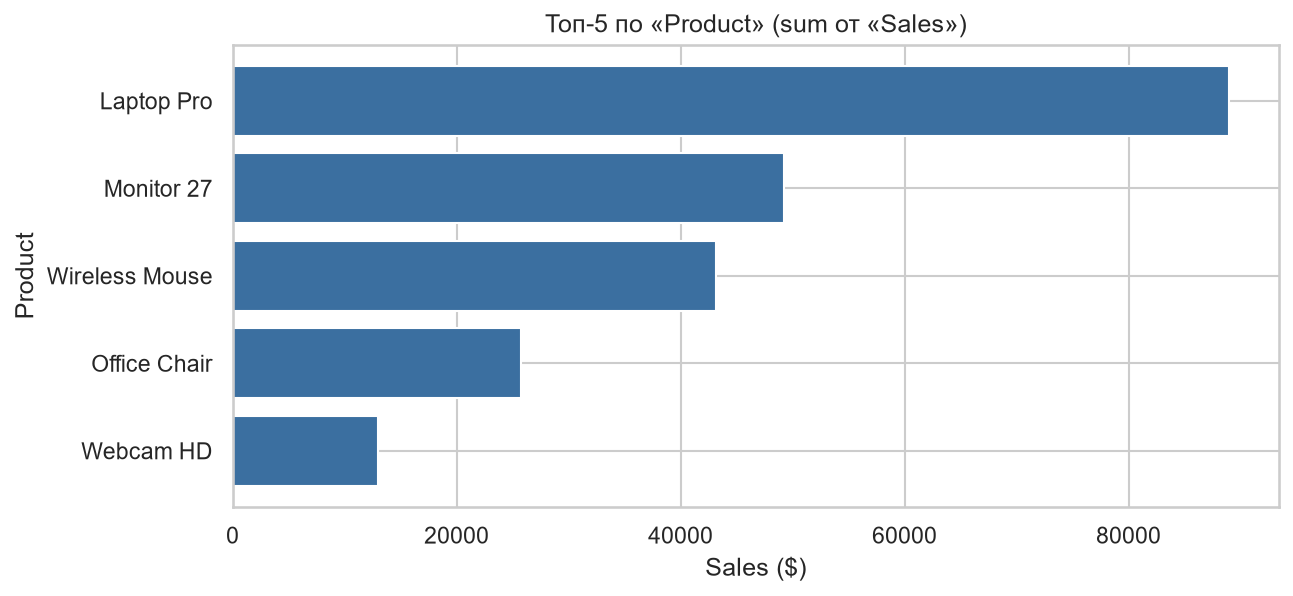
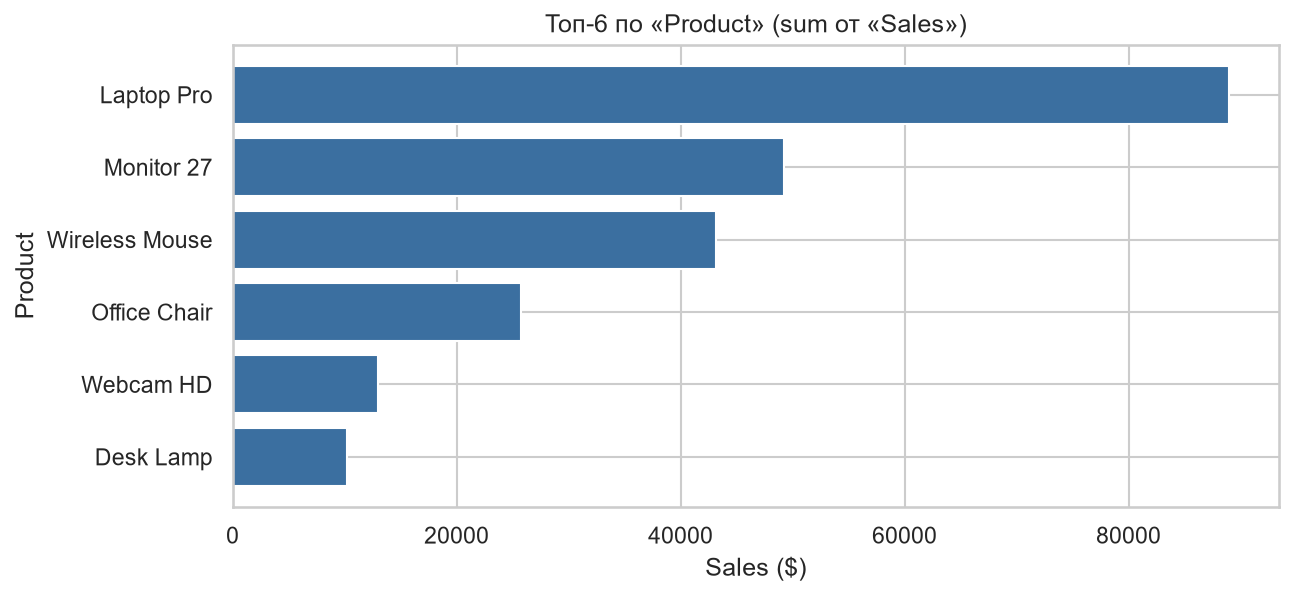
fix: описания графиков теряли данные, без которых модель слепа
Предпрогон всей цепочки через fastmcp.Client (в порядке из
prompts/system_prompt.md) вскрыл три дефекта. Общий корень: модель не
видит PNG, поэтому всё, чего нет в текстовом описании, для неё не
существует — а описания выбрасывали большую часть содержимого графика.

1. plot_top_n называл только лидера. Из-за этого описания топ-N по
   Sales и по Profit были почти идентичны ("лидер Laptop Pro"), и
   главная находка датасета — Wireless Mouse, 3-е место по обороту
   (19%) против 4-го по прибыли (8%) — была принципиально
   ненаблюдаема. Теперь перечисляется весь рейтинг с долями.

2. plot_trend считал динамику как "первый месяц против последнего" и
   выдавал +250% на данных, где год к году рост около нуля. Модель
   перенесла бы эту цифру в отчёт как факт. Теперь динамика считается
   по годовым суммам (2023 — 114891, 2024 — 115381, +0.4%), а при
   периоде меньше двух лет — по половинам периода; добавлен признак
   сезонности по календарным месяцам.

3. correlation_analysis называл только сильнейшую пару, и
   отрицательная связь Quantity-Profit (-0.13) пропадала. Теперь
   перечисляются все пары по убыванию силы связи. Попутно: в pandas 3
   stack() не отбрасывает NaN сам, из-за чего замаскированная половина
   матрицы полезла в описание парами с nan — добавлен явный dropna().

На каждый дефект написан регрессионный тест: прежние 63 теста
проходили зелёными и ни один из них этого не ловил, потому что
проверяли факт наличия описания, а не его информативность.
[…]

diff --git a/skills/visualization.py b/skills/visualization.py
@@ -168,15 +168,42 @@ def _build_trend_chart(df: pd.DataFrame, x_col: str, y_col: str) -> tuple[plt.Fi
 
     peak_month = monthly.idxmax()
     trough_month = monthly.idxmin()
-    first_value, last_value = monthly.iloc[0], monthly.iloc[-1]
-    change_pct = ((last_value - first_value) / first_value * 100) if first_value else 0.0
+
+    # Динамику намеренно считаем по агрегатам (годовым суммам или
+    # половинам периода), а не как «первый месяц против последнего»:
+    # два одиночных месяца слишком шумные, и полученный по ним процент
+    # ушёл бы в отчёт как утверждение о тренде, которого в данных нет.
+    yearly = monthly.groupby(monthly.index.year).sum()
+    if len(yearly) > 1:
+        dynamics = "По годам: " + ", ".join(
+            f"{year} — {value:.0f}" for year, value in yearly.items()
+        )
+        first_year_value, last_year_value = yearly.iloc[0], yearly.iloc[-1]
+        if first_year_value:
+            change_pct = (last_year_value - first_year_value) / first_year_value * 100
+            dynamics += f" (изменение {yearly.index[0]} → {yearly.index[-1]}: {change_pct:+.1f}%)"
+        dynamics += "."
+    else:
+        half = len(monthly) // 2
+        first_half, second_half = monthly.iloc[:half].sum(), monthly.iloc[half:].sum()
+        change_pct = ((second_half - first_half) / first_half * 100) if first_half else 0.0
+        dynamics = (
+            f"Вторая половина периода против первой: {change_pct:+.1f}% "
+            f"({first_half:.0f} → {second_half:.0f})."
+        )
+
+    monthly_by_calendar_month = monthly.groupby(monthly.index.month).mean()
+    best_month = monthly_by_calendar_month.idxmax()
+    worst_month = monthly_by_calendar_month.idxmin()
 
     description = (
         f"Линейный график помесячной суммы '{y_col}' с {monthly.index.min():%Y-%m} "
-        f"по {monthly.index.max():%Y-%m}. Пик — {peak_month:%Y-%m} "
-        f"({monthly.loc[peak_month]:.0f}), минимум — {trough_month:%Y-%m} "
-        f"({monthly.loc[trough_month]:.0f}). Изменение от первого к последнему "
-        f"месяцу: {change_pct:+.1f}%."
+        f"по {monthly.index.max():%Y-%m} ({len(monthly)} точек). "
+        f"Пик — {peak_month:%Y-%m} ({monthly.loc[peak_month]:.0f}), "
+        f"минимум — {trough_month:%Y-%m} ({monthly.loc[trough_month]:.0f}), "
+        f"среднее за месяц {monthly.mean():.0f}. {dynamics} "
+        f"В среднем по календарным месяцам сильнее всего месяц №{best_month}, "
+        f"слабее всего №{worst_month} — признак сезонности."
     )
     return fig, description
 
@@ -255,15 +282,21 @@ def _build_correlation_chart(df: pd.DataFrame) -> tuple[plt.Figure, str]:
     ax.set_title("Корреляционная матрица числовых показателей")
     fig.autofmt_xdate(rotation=45)
 
+    # Перечисляем все пары, а не только сильнейшую: модель не видит саму
+    # карту, и любая пара, не попавшая в описание, для неё не существует —
+    # включая содержательные слабые и отрицательные связи.
     upper_triangle_mask = np.triu(np.ones(corr.shape, dtype=bool), k=1)
-    pairs = corr.where(upper_triangle_mask).stack()
-    strongest_pair = pairs.abs().idxmax()
-    strongest_value = pairs.loc[strongest_pair]
+    # dropna() обязателен: в pandas 3 stack() больше не отбрасывает
+    # NaN сам, и замаскированная половина матрицы попала бы в описание
+    # как пары с коэффициентом nan.
+    pairs = corr.where(upper_triangle_mask).stack().dropna().sort_values(key=abs, ascending=False)
+    pairs_text = "; ".join(
+        f"'{left}' и '{right}': {value:+.2f}" for (left, right), value in pairs.items()
+    )
 
     description = (
         f"Тепловая карта корреляций между колонками: {', '.join(corr.columns)}. "
-        f"Сильнее всего связаны '{strongest_pair[0]}' и '{strongest_pair[1]}' "
-        f"(коэффициент {strongest_value:+.2f})."
+        f"Все пары по убыванию силы связи — {pairs_text}."
     )
     return fig, description
 
@@ -296,14 +329,24 @@ def _build_top_n_chart(
     ax.set_xlabel(_axis_label(value_col))
     ax.set_ylabel(category_col)
 
-    leader, leader_value = top.index[0], top.iloc[0]
     total = grouped.sum()
-    share_pct = (leader_value / total * 100) if total else 0.0
+
+    # Перечисляем весь рейтинг, а не только лидера: модель не видит
+    # картинку, поэтому по описанию «лидер такой-то» невозможно сравнить
+    # два графика между собой (например, заметить товар с высоким
+    # оборотом, но низкой прибылью). Список ограничен n, так что он
+    # заведомо компактный.
+    ranking_text = "; ".join(
+        f"{position}. '{category}' — {value:.0f}"
+        + (f" ({value / total * 100:.0f}%)" if total else "")
+        for position, (category, value) in enumerate(top.items(), start=1)
+    )
 
     description = (
         f"Горизонтальная столбчатая диаграмма: топ-{len(top)} значений "
-        f"'{category_col}' по {agg} от '{value_col}'. Лидер — '{leader}' "
-        f"({leader_value:.0f}, {share_pct:.0f}% от суммы по всем категориям)."
+        f"'{category_col}' по {agg} от '{value_col}' "
+        f"(всего категорий: {len(grouped)}). Рейтинг по убыванию — "
+        f"{ranking_text}."
     )
     return fig, description
 

diff --git a/tests/test_visualization.py b/tests/test_visualization.py
@@ -95,6 +95,23 @@ def test_correlation_chart_created_and_describes_strongest_pair(
     assert "Profit" in result["description"]
 
 
+def test_correlation_description_lists_every_pair_without_nan(
+    cleaned_dataset_id: tuple[SessionStore, str],
+) -> None:
+    """Регрессия: описание перечисляет все пары и не содержит nan.
+
+    Раньше называлась только сильнейшая пара, и отрицательная связь
+    Quantity↔Profit была для модели невидима — она не видит саму карту.
+    """
+    session, dataset_id = cleaned_dataset_id
+    description = CorrelationChartSkill(session).run(dataset_id)["description"]
+
+    assert "nan" not in description.lower()
+    # Три числовые колонки дают ровно три пары — все должны быть названы.
+    assert description.count(":") >= 3
+    assert "Quantity" in description
+
+
 def test_correlation_chart_requires_two_numeric_columns() -> None:
     """Меньше двух числовых колонок — явная ошибка, а не пустой график."""
     session = SessionStore()
@@ -118,6 +135,55 @@ def test_top_n_chart_created_and_identifies_leader(
     assert result["chart_type"] == "top_n"
     assert Path(result["path"]).exists()
     assert "%" in result["description"]
+
+
+def test_top_n_description_lists_full_ranking_not_just_leader(
+    cleaned_dataset_id: tuple[SessionStore, str],
+) -> None:
+    """Регрессия: описание перечисляет весь рейтинг, а не только лидера.
+
+    Пока называли одного лидера, описания топ-N по Sales и по Profit
+    были почти одинаковы ('лидер Laptop Pro'), и главная находка
+    датасета — товар с высоким оборотом и низкой маржой — была для
+    модели принципиально ненаблюдаема: картинку она не видит.
+    """
+    session, dataset_id = cleaned_dataset_id
+    by_sales = TopNChartSkill(session).run(
+        dataset_id, category_col="Product", value_col="Sales", n=10, agg="sum"
+    )["description"]
+    by_profit = TopNChartSkill(session).run(
+        dataset_id, category_col="Product", value_col="Profit", n=10, agg="sum"
+    )["description"]
+
+    # В рейтинге должны быть названы все шесть товаров, а не только лидер.
+    for product in ("Laptop Pro", "Wireless Mouse", "Desk Lamp"):
+        assert product in by_sales
+        assert product in by_profit
+
+    # Заложенная в данные находка: Wireless Mouse даёт заметно большую
+    # долю оборота, чем прибыли, — по описаниям это должно быть видно.
+    sales_rank = by_sales.index("Wireless Mouse")
+    profit_rank = by_profit.index("Wireless Mouse")
+    assert sales_rank < profit_rank
+
+
+def test_trend_description_uses_yearly_totals_not_noisy_endpoints(
+    cleaned_dataset_id: tuple[SessionStore, str],
+) -> None:
+    """Регрессия: динамика считается по годам, а не по двум крайним месяцам.
+
+    Сравнение первого месяца с последним давало «+250%» на данных, где
+    год к году рост около нуля, — модель добросовестно перенесла бы эту
+    цифру в отчёт как факт.
+    """
+    session, dataset_id = cleaned_dataset_id
+    description = TrendChartSkill(session).run(dataset_id, x_col="Date", y_col="Sales")[
+        "description"
+    ]
+
+    assert "По годам" in description
+    assert "2023" in description
+    assert "2024" in description
 
 
 def test_top_n_chart_rejects_invalid_aggregation(

diff --git a/docs/screenshots/README.md b/docs/screenshots/README.md
@@ -1,0 +1,23 @@
+# Скриншоты работы системы
+
+Сюда кладутся скриншоты диалога с LLM-клиентом (Claude Desktop) —
+демонстрационный материал, который требует ТЗ («скриншоты или видео
+работы чат-интерфейса с примером диалога»).
+
+Что стоит заснять:
+
+1. **Список инструментов** — окно клиента, где видно, что сервер
+   `sales-analytics` подключён и отдаёт инструменты (`load_data`,
+   `describe_data`, `plot_trend`, `plot_distribution`,
+   `correlation_analysis` и остальные).
+2. **Вызов `load_data`** — запрос пользователя и ответ модели со
+   сводкой по структуре данных.
+3. **Очистка** — вызов `clean_data` с логом операций (сколько дублей
+   удалено, пропусков заполнено, выбросов найдено).
+4. **Построение графиков** — один-два вызова `plot_*` с описанием
+   графика в ответе.
+5. **Итоговый отчёт** — текст с выводами и рекомендациями, который
+   модель написала сама (см. `reports/sample_report.md`).
+
+Имена файлов — по порядку шагов, например `01_tools.png`,
+`02_load_data.png` и так далее, чтобы README читался сверху вниз.
